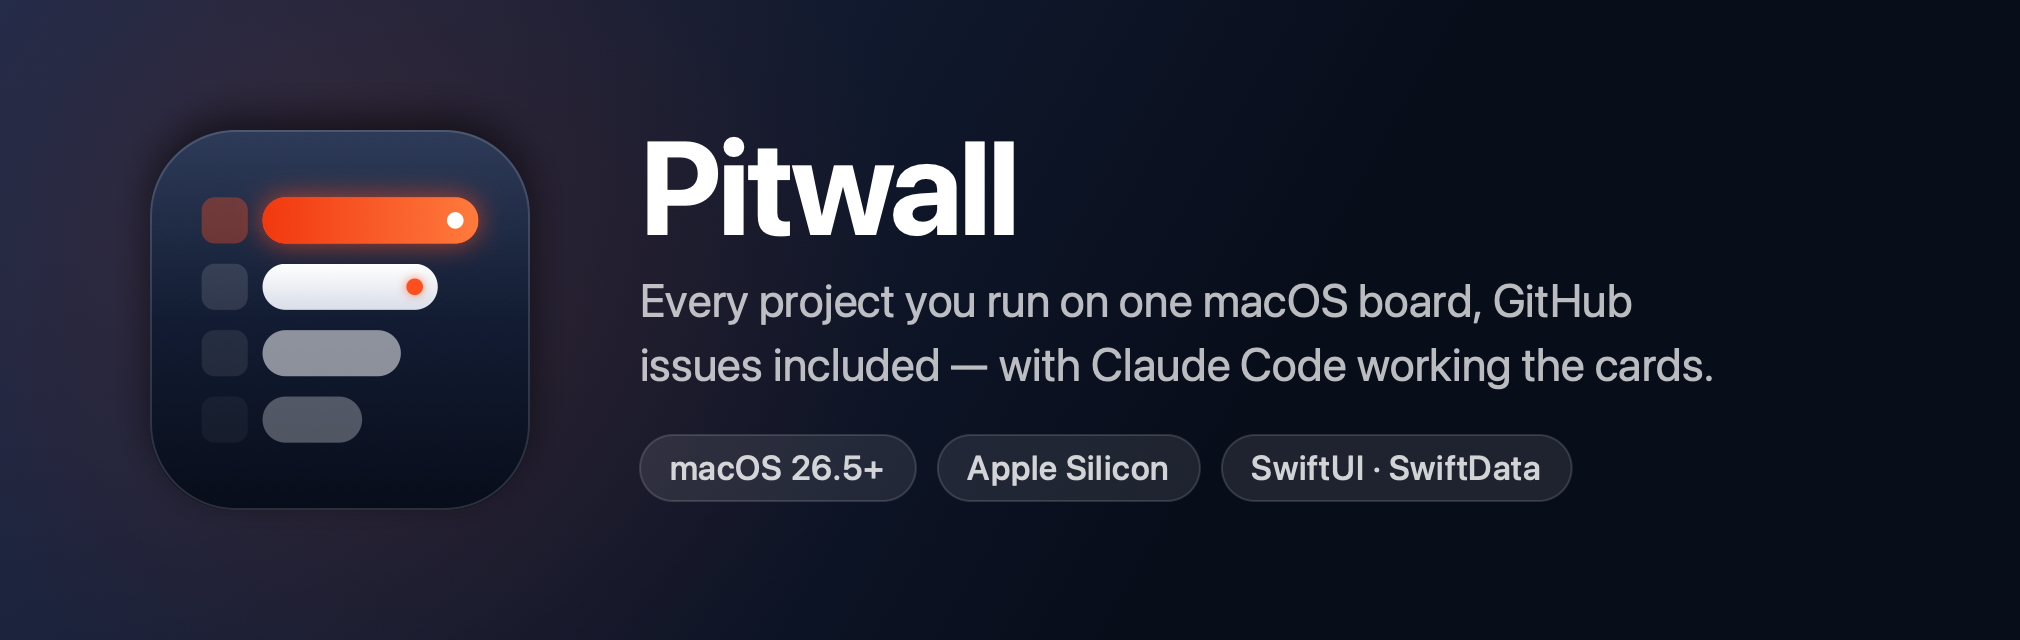
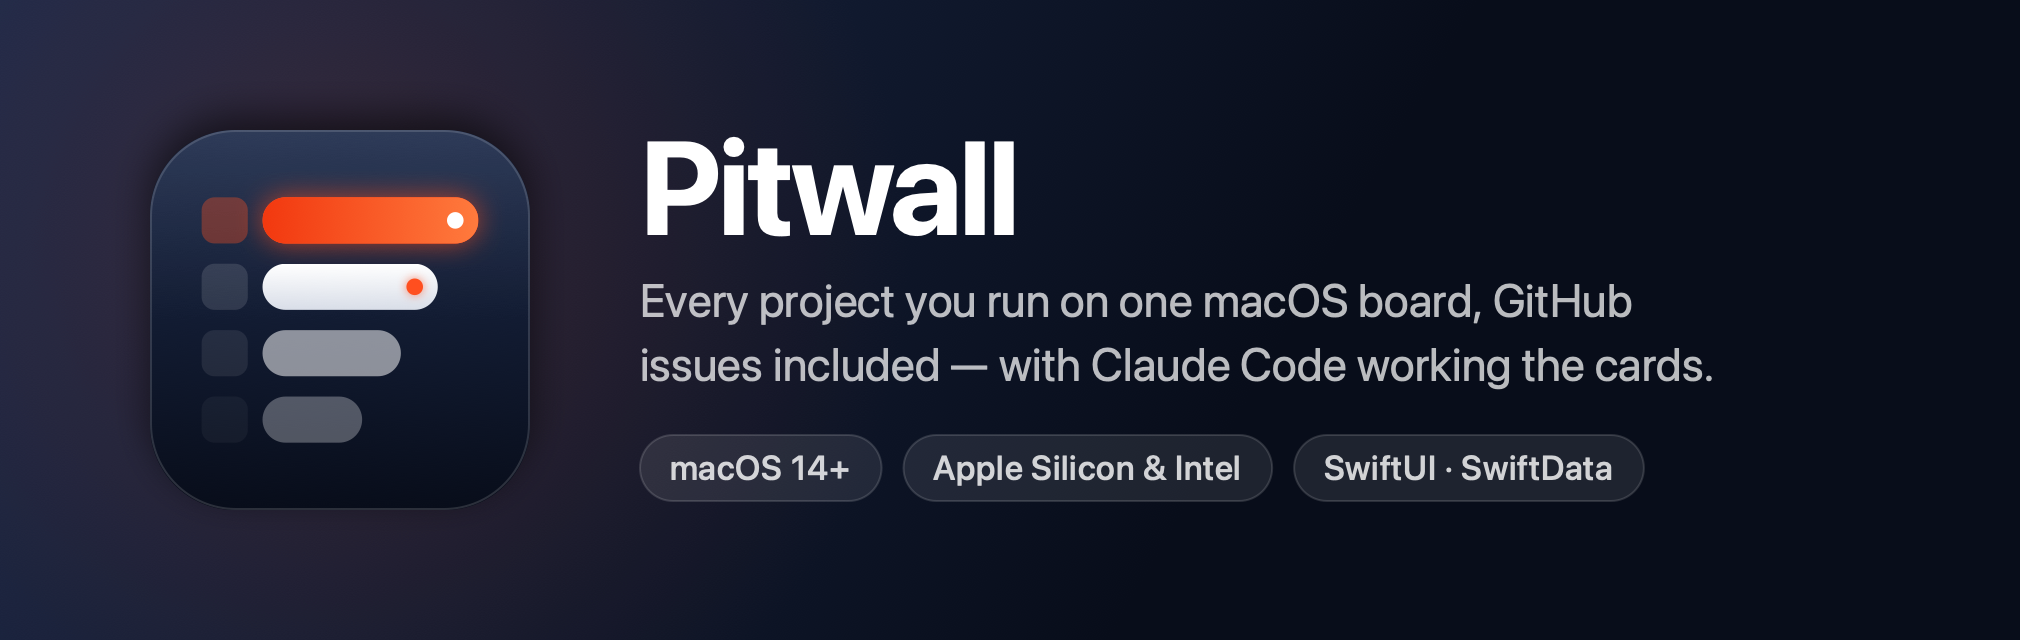
Run on macOS 14 and on Intel Macs
The app required macOS 26.5 and the local builds were arm64 only, so no
2019 Intel Mac could run it: most of them stop at Sequoia, and the 2019
MacBook Air at Sonoma.

The deployment target is now macOS 14 and releases are universal. Only three
call sites used anything newer: ToolbarSpacer (macOS 26) in two toolbars,
and removing the card window's toolbar title (macOS 15). They sit behind
#available and fall back to plain system behaviour; the latter goes through
Support/Compatibility.swift, which records the rule. ClaudeWMWire drops to
.macOS(.v14) with them.

Tools/release.sh passes ARCHS explicitly and checks the exported app with
lipo. README requirements, badges and the banner say macOS 14+ and Apple
Silicon & Intel.

Changed region(s): [[0.3743, 0.6875, 0.8109, 0.7812]]

diff --git a/workflow-manager/Support/Compatibility.swift b/workflow-manager/Support/Compatibility.swift
@@ -1,0 +1,29 @@
+//
+//  Compatibility.swift
+//  workflow-manager
+//
+//  The app runs from macOS 14 Sonoma, so every Intel Mac from 2018 on can use
+//  it — the 2019 MacBook Air stops at Sonoma, and most 2019 Intel Macs at
+//  Sequoia. It is *designed* on macOS 26, and these wrappers are where a newer
+//  API meets an older system: on Tahoe they apply, earlier they fall back to
+//  the plain behaviour rather than to a look of our own.
+//
+//  Anything newer than macOS 14 goes behind `#available` here or at its call
+//  site, and the deployment target stays where it is — raising it would quietly
+//  drop those Macs again.
+//
+
+import SwiftUI
+
+extension View {
+    /// Drops the window title from the toolbar (macOS 15+). Earlier, the title
+    /// stays — a repeated title is the lesser cost.
+    @ViewBuilder
+    func hidingToolbarTitle() -> some View {
+        if #available(macOS 15, *) {
+            toolbar(removing: .title)
+        } else {
+            self
+        }
+    }
+}

diff --git a/workflow-manager/Views/Card/CardWindow.swift b/workflow-manager/Views/Card/CardWindow.swift
@@ -152,7 +152,7 @@ struct CardPage: View {
         // The title is the page's first line; the toolbar repeating it, as
         // Notes does not, would put it on screen twice. The window keeps it
         // for the Window menu and Mission Control.
-        .toolbar(removing: .title)
+        .hidingToolbarTitle()
         .toolbar { toolbar }
         .frame(minWidth: 560, minHeight: 420)
         .task {
@@ -382,7 +382,9 @@ struct CardPage: View {
             .help("Code block (⌥⌘C)")
         }
 
-        ToolbarSpacer(.fixed)
+        if #available(macOS 26, *) {
+            ToolbarSpacer(.fixed)
+        }
 
         ToolbarItem { claudeButton }
 

diff --git a/Tools/RenderBanner.swift b/Tools/RenderBanner.swift
@@ -296,7 +296,7 @@ draw("issues included — with Claude Code working the cards.", ctx,
 // The three things a reader wants to know before clicking Download, in the
 // order they would ask: what it needs, what it is, what it costs them.
 
-let chips = ["macOS 26.5+", "Apple Silicon", "SwiftUI · SwiftData"]
+let chips = ["macOS 14+", "Apple Silicon & Intel", "SwiftUI · SwiftData"]
 var chipX = textX
 let chipFont = font(34, .medium)
 

diff --git a/workflow-manager/Views/Detail/ProjectDetailView.swift b/workflow-manager/Views/Detail/ProjectDetailView.swift
@@ -198,7 +198,9 @@ struct ProjectDetailView: View {
                 .foregroundStyle(Theme.agentText)
                 .help(filter.scope == .claude ? "Show every card" : "Show only cards with Claude")
             }
-            ToolbarSpacer(.fixed)
+            if #available(macOS 26, *) {
+                ToolbarSpacer(.fixed)
+            }
         }
 
         if !viewMode.requiresRepository {

diff --git a/Wire/Package.swift b/Wire/Package.swift
@@ -39,7 +39,7 @@ let package = Package(
     // Below the app's own floor on purpose: the phone ships to older iOS than
     // the Mac app requires of macOS, and nothing here needs a recent SDK.
     platforms: [
-        .macOS(.v15),
+        .macOS(.v14),
         .iOS(.v17),
     ],
     products: [

diff --git a/README.md b/README.md
@@ -5,8 +5,8 @@
 
 <p align="center">
   <a href="https://github.com/kmrifat/claude-workflow-manager/releases/latest"><img alt="Latest release" src="https://img.shields.io/github/v/release/kmrifat/claude-workflow-manager?style=flat-square&label=download&color=FF4F1F"></a>
-  <img alt="macOS 26.5+" src="https://img.shields.io/badge/macOS-26.5%2B-FF4F1F?style=flat-square">
-  <img alt="Apple Silicon" src="https://img.shields.io/badge/Apple%20Silicon-arm64-FF4F1F?style=flat-square">
+  <img alt="macOS 14+" src="https://img.shields.io/badge/macOS-14%2B-FF4F1F?style=flat-square">
+  <img alt="Apple Silicon and Intel" src="https://img.shields.io/badge/Apple%20Silicon%20%26%20Intel-universal-FF4F1F?style=flat-square">
   <img alt="Swift" src="https://img.shields.io/badge/Swift-SwiftUI%20%C2%B7%20SwiftData-FF4F1F?style=flat-square">
 </p>
 
@@ -55,8 +55,8 @@ the `.dmg`, and drag **Pitwall** into your Applications folder.
 
 | | |
 |---|---|
-| **macOS 26.5 or later** | Required. The app will not launch on anything older. |
-| **Apple Silicon** | The released build is arm64 only; it does not run on Intel Macs. |
+| **macOS 14 Sonoma or later** | Required. It is designed on macOS 26 and looks its best there; on 14 and 15 it uses the plain system toolbar instead of Liquid Glass. |
+| **Apple Silicon or Intel** | One universal app. Any Mac that runs Sonoma — Intel ones from 2018 on — runs it. |
 | [`gh`](https://cli.github.com) | Only for the **Issues** view. Install it, then run `gh auth login`. |
 | [`claude`](https://claude.com/claude-code) | Only for the Claude features. npm, nvm, bun and volta installs are all found automatically. |
 

diff --git a/CLAUDE.md b/CLAUDE.md
@@ -492,7 +492,22 @@ cannot run `claude` from an nvm path. Deleting the terminal would change
 nothing; Issues, Files, the git reader and the Claude integration are all built
 the same way.
 
-Two details the script encodes:
+**The app runs from macOS 14 Sonoma, on Intel and Apple Silicon.** It is
+designed on macOS 26, but every Intel Mac from 2018 on can reach Sonoma and
+most stop at Sequoia (the 2019 MacBook Air at Sonoma), so a 26.5 floor locked
+all of them out. Anything newer than 14 goes behind `#available` — in
+`Support/Compatibility.swift` or at the call site (`ToolbarSpacer` is the
+macOS 26 one) — and falls back to plain system behaviour, never to a look of
+our own. Do not raise the deployment target to reach a new API; gate it. The
+check that keeps this honest is a build with `MACOSX_DEPLOYMENT_TARGET=14.0`
+`ARCHS="arm64 x86_64"`: it fails on any ungated API. `ClaudeWMWire` is on
+`.macOS(.v14)` for the same reason.
+
+Three details the script encodes:
+
+- **The app is universal.** `ARCHS="arm64 x86_64"` is passed explicitly and
+  checked with `lipo` after export: an arm64-only build fails on an Intel Mac
+  with nothing more helpful than "not supported on this Mac".
 
 - **Notarization needs the Hardened Runtime, and that is all it needs.** It is
   already on for both configurations. Spawning children is allowed under it; the
